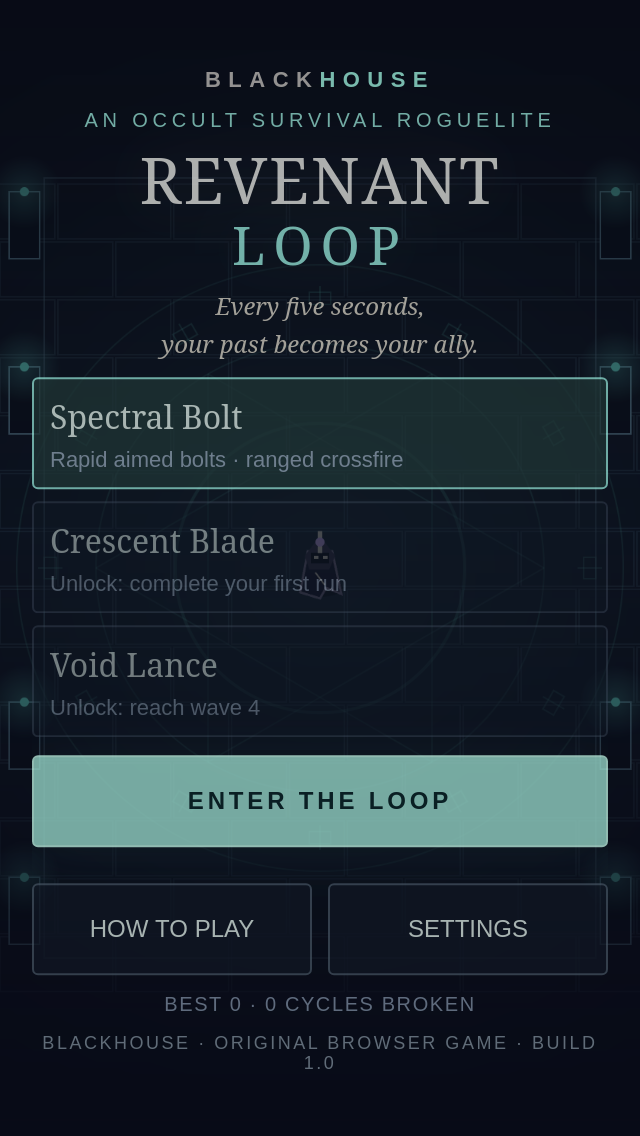
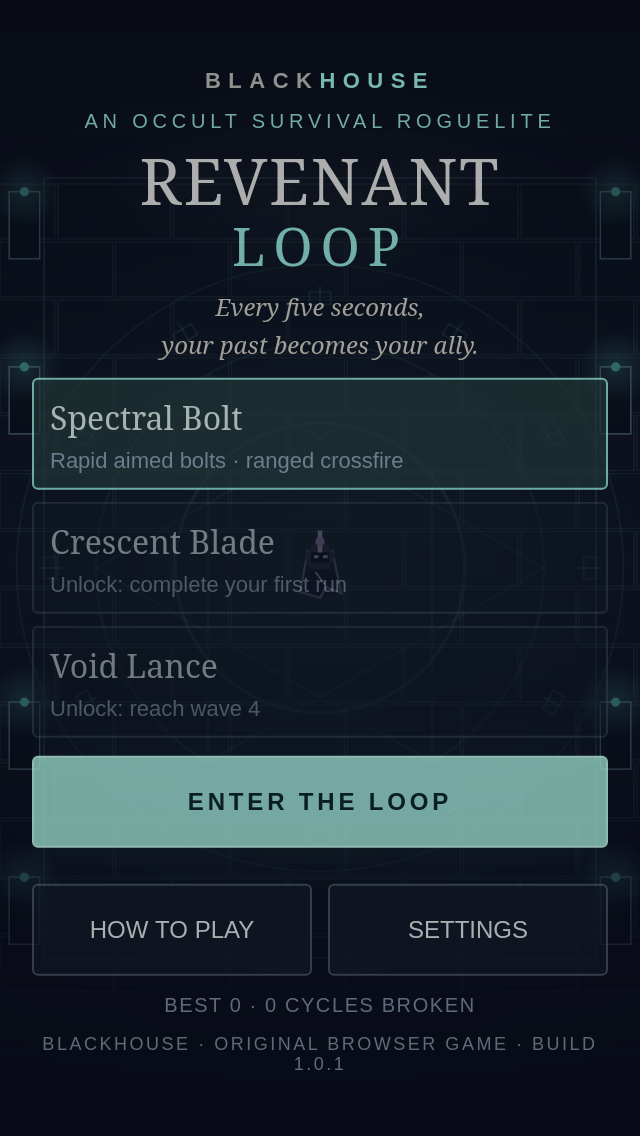
Fix natural Echo overlap and release v1.0.1

diff --git a/src/main.ts b/src/main.ts
@@ -69,7 +69,7 @@ function menu() {
   hud.hidden = true;
   controls.hidden = true;
   panel(
-    `<div class="brand">BLACK<b>HOUSE</b></div><div class="eyebrow">An occult survival roguelite</div><h1>REVENANT<br><em>LOOP</em></h1><p class="tagline">Every five seconds,<br>your past becomes your ally.</p><div class="sigil" aria-hidden="true">⟁</div><div id="weapons">${(Object.keys(WEAPONS) as Weapon[]).map((w) => `<button class="weapon ${selected === w ? "selected" : ""}" data-weapon="${w}" ${save.unlocked.includes(w) ? "" : "disabled"}><strong>${WEAPONS[w].name}</strong><small>${save.unlocked.includes(w) ? WEAPONS[w].desc : w === "blade" ? "Unlock: complete your first run" : "Unlock: reach wave 4"}</small></button>`).join("")}</div><button class="primary" id="start">ENTER THE LOOP</button><div class="row"><button class="secondary" id="how">HOW TO PLAY</button><button class="secondary" id="settings">SETTINGS</button></div><div class="muted">BEST ${save.highScore.toLocaleString()} · ${save.wins} CYCLES BROKEN</div><div class="footer">BLACKHOUSE · ORIGINAL BROWSER GAME · BUILD 1.0</div>`,
+    `<div class="brand">BLACK<b>HOUSE</b></div><div class="eyebrow">An occult survival roguelite</div><h1>REVENANT<br><em>LOOP</em></h1><p class="tagline">Every five seconds,<br>your past becomes your ally.</p><div class="sigil" aria-hidden="true">⟁</div><div id="weapons">${(Object.keys(WEAPONS) as Weapon[]).map((w) => `<button class="weapon ${selected === w ? "selected" : ""}" data-weapon="${w}" ${save.unlocked.includes(w) ? "" : "disabled"}><strong>${WEAPONS[w].name}</strong><small>${save.unlocked.includes(w) ? WEAPONS[w].desc : w === "blade" ? "Unlock: complete your first run" : "Unlock: reach wave 4"}</small></button>`).join("")}</div><button class="primary" id="start">ENTER THE LOOP</button><div class="row"><button class="secondary" id="how">HOW TO PLAY</button><button class="secondary" id="settings">SETTINGS</button></div><div class="muted">BEST ${save.highScore.toLocaleString()} · ${save.wins} CYCLES BROKEN</div><div class="footer">BLACKHOUSE · ORIGINAL BROWSER GAME · BUILD 1.0.1</div>`,
   );
   document.querySelectorAll<HTMLButtonElement>("[data-weapon]").forEach(
     (b) =>
@@ -84,7 +84,7 @@ function menu() {
 }
 function help() {
   panel(
-    `<div class="eyebrow">The revenant’s covenant</div><h2>Fight beside your past.</h2><p>Move with <b>WASD / arrows</b> or the left thumbstick. Your weapon attacks the nearest enemy automatically.</p><p>After five seconds, press <b>Space / ECHO</b>. A ghost repeats your exact last five seconds of movement and attacks, dealing real damage.</p><p>Move around the arena before summoning to create crossfire. Up to <b>two Echoes</b> can coexist with cooldown upgrades. Red lines and rings warn of enemy attacks.</p><p>Survive nine waves, choose a boon after each, and defeat the three-phase Hollow Sovereign. A run lasts about 7–10 minutes.</p><button class="primary" id="learn">PLAY INTERACTIVE TUTORIAL</button><button class="secondary" id="back">BACK</button>`,
+    `<div class="eyebrow">The revenant’s covenant</div><h2>Fight beside your past.</h2><p>Move with <b>WASD / arrows</b> or the left thumbstick. Your weapon attacks the nearest enemy automatically.</p><p>After five seconds, press <b>Space / ECHO</b>. A ghost repeats your exact last five seconds of movement and attacks, dealing real damage.</p><p>Move around the arena before summoning to create crossfire. Up to <b>two Echoes</b> can coexist naturally. Echo cooldown is 3.2 seconds; Fractured Hour reduces it to 2.2 seconds. Red lines and rings warn of enemy attacks.</p><p>Survive nine waves, choose a boon after each, and defeat the three-phase Hollow Sovereign. A run lasts about 7–10 minutes.</p><button class="primary" id="learn">PLAY INTERACTIVE TUTORIAL</button><button class="secondary" id="back">BACK</button>`,
   );
   bind("learn", () => start(true));
   bind("back", menu);
@@ -295,7 +295,7 @@ function renderHUD() {
       `${Math.max(0, (boss.hp / boss.max) * 100)}%`;
   }
   echo.classList.toggle("unready", !g.ready);
-  echo.innerHTML = `ECHO<small>${g.ready ? "READY" : g.cooldown > 0 ? g.cooldown.toFixed(1) + "s" : "RECORDING"}</small><small>${g.echoes.length} / 2 ACTIVE</small>`;
+  echo.innerHTML = `ECHO<small>${g.ready ? "READY" : g.cooldown > 0 ? g.cooldown.toFixed(1) + "s" : g.echoes.length >= 2 ? "FULL" : "RECORDING"}</small><small>${g.echoes.length} / 2 ACTIVE</small>`;
 }
 function pointerMove(e: PointerEvent) {
   if (e.pointerId !== stickId) return;

diff --git a/tests/game.test.ts b/tests/game.test.ts
@@ -62,16 +62,69 @@ describe("temporal memory", () => {
     advance(g, 4);
     expect(g.echoes).toHaveLength(0);
   });
-  it("enforces cooldown and two active echo maximum", () => {
+  it.each([0, 1, 2, 3, 4])(
+    "naturally overlaps independent replays at cooldown rank %s",
+    (rank) => {
+      const g = new Game();
+      g.spawnTimer = 999;
+      g.levels.cooldown = rank;
+      expect(g.echoCooldown).toBe(3.2 - rank * 0.25);
+      advance(g, 5.1, { x: 0.1, y: 0 });
+      // Record an attack in both overlapping windows, preserving its world position.
+      g.recorder.attack({
+        t: g.time - 0.1,
+        x: 200,
+        y: 200,
+        angle: 0,
+        weapon: "lance",
+        damage: 100,
+        size: 1,
+        count: 1,
+      });
+      expect(g.summon()).toBe(true);
+      const first = g.echoes[0];
+      expect(g.summon()).toBe(false);
+      advance(g, g.echoCooldown - 0.05, { x: -0.1, y: 0 });
+      expect(g.summon()).toBe(false);
+      advance(g, 0.1, { x: -0.1, y: 0 });
+      expect(g.summon()).toBe(true);
+      const second = g.echoes[1];
+      expect(first.frames).not.toBe(second.frames);
+      expect(first.attacks).not.toBe(second.attacks);
+      expect(first.age).toBeGreaterThan(second.age);
+      expect(first.x).not.toBe(second.x);
+      expect(g.echoes).toHaveLength(2);
+      expect(g.summon()).toBe(false);
+      const replayed: number[] = [];
+      const attack = g.attack.bind(g);
+      g.attack = (a, echo) => {
+        if (echo) replayed.push(a.x);
+        attack(a, echo);
+      };
+      advance(g, 5 - first.age - 0.05);
+      expect(g.echoes).toHaveLength(2);
+      expect(first.index).toBe(1);
+      advance(g, 0.1);
+      expect(g.echoes).toEqual([second]);
+      advance(g, 5 - second.age + 0.05);
+      expect(g.echoes).toHaveLength(0);
+      expect(second.index).toBe(1);
+      expect(replayed).toEqual([200, 200]);
+    },
+  );
+  it("blocks a third Echo even when the upgraded cooldown is ready", () => {
     const g = new Game();
     g.spawnTimer = 999;
+    g.levels.cooldown = 4;
     advance(g, 5.1);
     expect(g.summon()).toBe(true);
-    expect(g.summon()).toBe(false);
-    g.cooldown = 0;
+    advance(g, 2.25);
     expect(g.summon()).toBe(true);
-    g.cooldown = 0;
+    advance(g, 2.25);
+    expect(g.cooldown).toBe(0);
+    expect(g.ready).toBe(false);
     expect(g.summon()).toBe(false);
+    expect(g.echoes).toHaveLength(2);
   });
 });
 describe("combat and progression", () => {
@@ -281,7 +334,7 @@ it("does not offer redundant Echo cooldown ranks", () => {
     g.between();
     expect(g.choices.some((u) => u.id === "cooldown")).toBe(false);
   }
-  expect(g.echoCooldown).toBe(2.6);
+  expect(g.echoCooldown).toBe(2.2);
 });
 
 it("survives a browser that denies the localStorage property itself", () => {

diff --git a/tests/browser/play.spec.ts b/tests/browser/play.spec.ts
@@ -141,3 +141,27 @@ test("simultaneous touch movement and echo retains joystick pointer", async ({
   });
   await page.screenshot({ path: "test-results/mobile-combat.png" });
 });
+
+test("natural Echo overlap updates cooldown and active HUD", async ({
+  page,
+}) => {
+  await page.goto("/?test");
+  await page.evaluate(() => {
+    const api = (window as any).__revenant;
+    api.start(false);
+    api.game.spawnTimer = 999;
+  });
+  const echo = page.locator("#echo");
+  await expect(echo).toContainText("RECORDING");
+  await expect(echo).toContainText("READY", { timeout: 10000 });
+  await echo.dispatchEvent("pointerdown", { pointerId: 2 });
+  await expect(echo).toContainText("1 / 2 ACTIVE");
+  await expect(echo).toContainText(/3\.[0-2]s/);
+  await expect(echo).toContainText("READY", { timeout: 4500 });
+  await echo.dispatchEvent("pointerdown", { pointerId: 3 });
+  await expect(echo).toContainText("2 / 2 ACTIVE");
+  await expect
+    .poll(() => page.evaluate(() => (window as any).__revenant.game.echoUses))
+    .toBe(2);
+  await expect(echo).toContainText("1 / 2 ACTIVE", { timeout: 2500 });
+});

diff --git a/src/game.ts b/src/game.ts
@@ -134,7 +134,7 @@ export const UPGRADES = [
   {
     id: "cooldown",
     name: "Fractured Hour",
-    desc: "Echo cooldown −0.7s (minimum 2.6s).",
+    desc: "Echo cooldown −0.25s (minimum 2.2s).",
     tag: "ECHO",
   },
   {
@@ -309,13 +309,14 @@ export class Game {
     return 140 * (1 + 0.12 * this.level("speed"));
   }
   get echoCooldown() {
-    return Math.max(2.6, 5.2 - 0.7 * this.level("cooldown"));
+    return Math.max(2.2, 3.2 - 0.25 * this.level("cooldown"));
   }
   get waveDuration() {
     return 44 + (this.wave % 3) * 2;
   }
   get ready() {
     return (
+      this.echoes.length < 2 &&
       this.cooldown <= 0 &&
       this.recorder.frames.length > 0 &&
       this.time - this.recorder.frames[0].t >= 4.9

diff --git a/docs/VERIFICATION-v1.0.1.md b/docs/VERIFICATION-v1.0.1.md
@@ -1,0 +1,13 @@
+# v1.0.1 Echo balance verification — 2026-10-22
+
+Base Echo cooldown is exactly 3.2 seconds; lifespan remains five seconds. Fractured Hour has four useful ranks: 2.95, 2.70, 2.45 and 2.20 seconds. The existing rank cap excludes further offers. Independent movement snapshots, attack cursors, world-space attacks, damage, enemy targeting and two-active limit are retained. Readiness now also checks capacity; the HUD shows FULL when two Echoes occupy both slots after cooldown expires. Help and build number reflect the release. Save schema/key and progression are unchanged.
+
+## Validation
+
+- Build, formatting and all 28 unit/regression cases pass. Natural-overlap cases advance ordinary simulation time without resetting cooldown at every rank, check separate movement/attack snapshots, both attack cursors, attack execution, and independent five-second expiration. A maximum-investment case lets cooldown expire with two active Echoes and proves a third is rejected.
+- All browser cases pass across desktop Chromium, mobile Chromium and iPhone 13 WebKit: 19 passed, two intentional skips for CDP multitouch outside mobile Chromium. New browser case waits for real-time cooldown and checks RECORDING, READY, countdown, 1/2 → 2/2 → 1/2 active transitions. Existing tutorial, input, pause, progression, victory UI, save resilience, compact layout and lifecycle cases pass.
+- WebKit initially could not launch due to missing host libraries. Debian packages were downloaded and extracted into the browser bundle's sys/lib without root access. Host validation was bypassed only because it does not detect these local libraries; real WebKit executed successfully.
+- 54 deterministic full-run balance simulations completed: three weapons × six seeds × standard, Echo and defense priorities. Wins per six for Bolt/Blade/Lance: standard 3/6/4; Echo 1/2/3; defense 1/2/3. Raw results are in balance/v1.0.1. Echo-focused wins include substantial late-wave Echo kills; deaths remain normal. Regression cases confirm stationary automatic-Echo play loses with every weapon. These simulations establish feasibility, not human win rates.
+- Production smoke checks both Chromium and WebKit at 320×568, using public controls and no test bridge, including natural two-Echo overlap, tutorial, movement, settings, defeat and restart; no console errors or horizontal overflow.
+
+Physical iPhone hardware, subjective human balance and audio testing remain unverified. Crownfall Arena and the main BlackHouse website were not modified.

diff --git a/README.md b/README.md
@@ -4,7 +4,7 @@
 
 **Play:** https://blackhouse-revenant-loop.pages.dev/
 
-A complete, mobile-first supernatural action roguelite for BlackHouse. Release v1.0.0: playable from tutorial through victory, with original procedural graphics and synthesized sound. No accounts, remote services, downloaded asset packs, or runtime dependencies.
+A complete, mobile-first supernatural action roguelite for BlackHouse. Release v1.0.1: playable from tutorial through victory, with original procedural graphics and synthesized sound. No accounts, remote services, downloaded asset packs, or runtime dependencies.
 
 ## Play / develop
 
@@ -36,7 +36,7 @@ Serve **the contents of `dist/`** from any static HTTPS host. No server, API key
 
 ## Content
 
-- **Temporal Echo:** five seconds of recorded movement and attack events; replayed world positions, attack directions, weapon parameters, and timing. Echo damage begins at 65% and can be upgraded. Duration is five seconds. Base cooldown is 5.2 seconds; Fractured Hour can reduce it to 2.6 seconds. Up to two active Echoes; no AI-driven replay or simulation rewind. Enemies can be distracted by nearby ghosts.
+- **Temporal Echo:** five seconds of recorded movement and attack events; replayed world positions, attack directions, weapon parameters, and timing. Echo damage begins at 65% and can be upgraded. Duration is five seconds. Base cooldown is 3.2 seconds; four Fractured Hour ranks each reduce it by 0.25 seconds, reaching 2.2 seconds. Up to two active Echoes; no AI-driven replay or simulation rewind. Enemies can be distracted by nearby ghosts.
 - **Spectral Bolt:** rapid single-target projectiles; extra projectiles create a fan. **Crescent Blade:** broad close-range sweep with multi-target damage. **Void Lance:** slower piercing projectiles for lined-up enemies. Bolt starts unlocked; finishing a run unlocks Blade, reaching wave four unlocks Lance.
 - **Six enemies:** pursuing Husks, telegraphed charging Hounds, ranged Archers, armored Brutes with delayed area slams, weaving Wraiths, and add-spawning Summoners. Summoners stop producing adds at wave cleanup.
 - **Three chapters:** Ashen Cloister, Violet Ossuary, Crimson Eclipse. Each has a different palette and procedural architecture. Nine escalating randomized waves lead to the Hollow Sovereign, whose phases increase projectile density and attack frequency and summon reinforcements.
